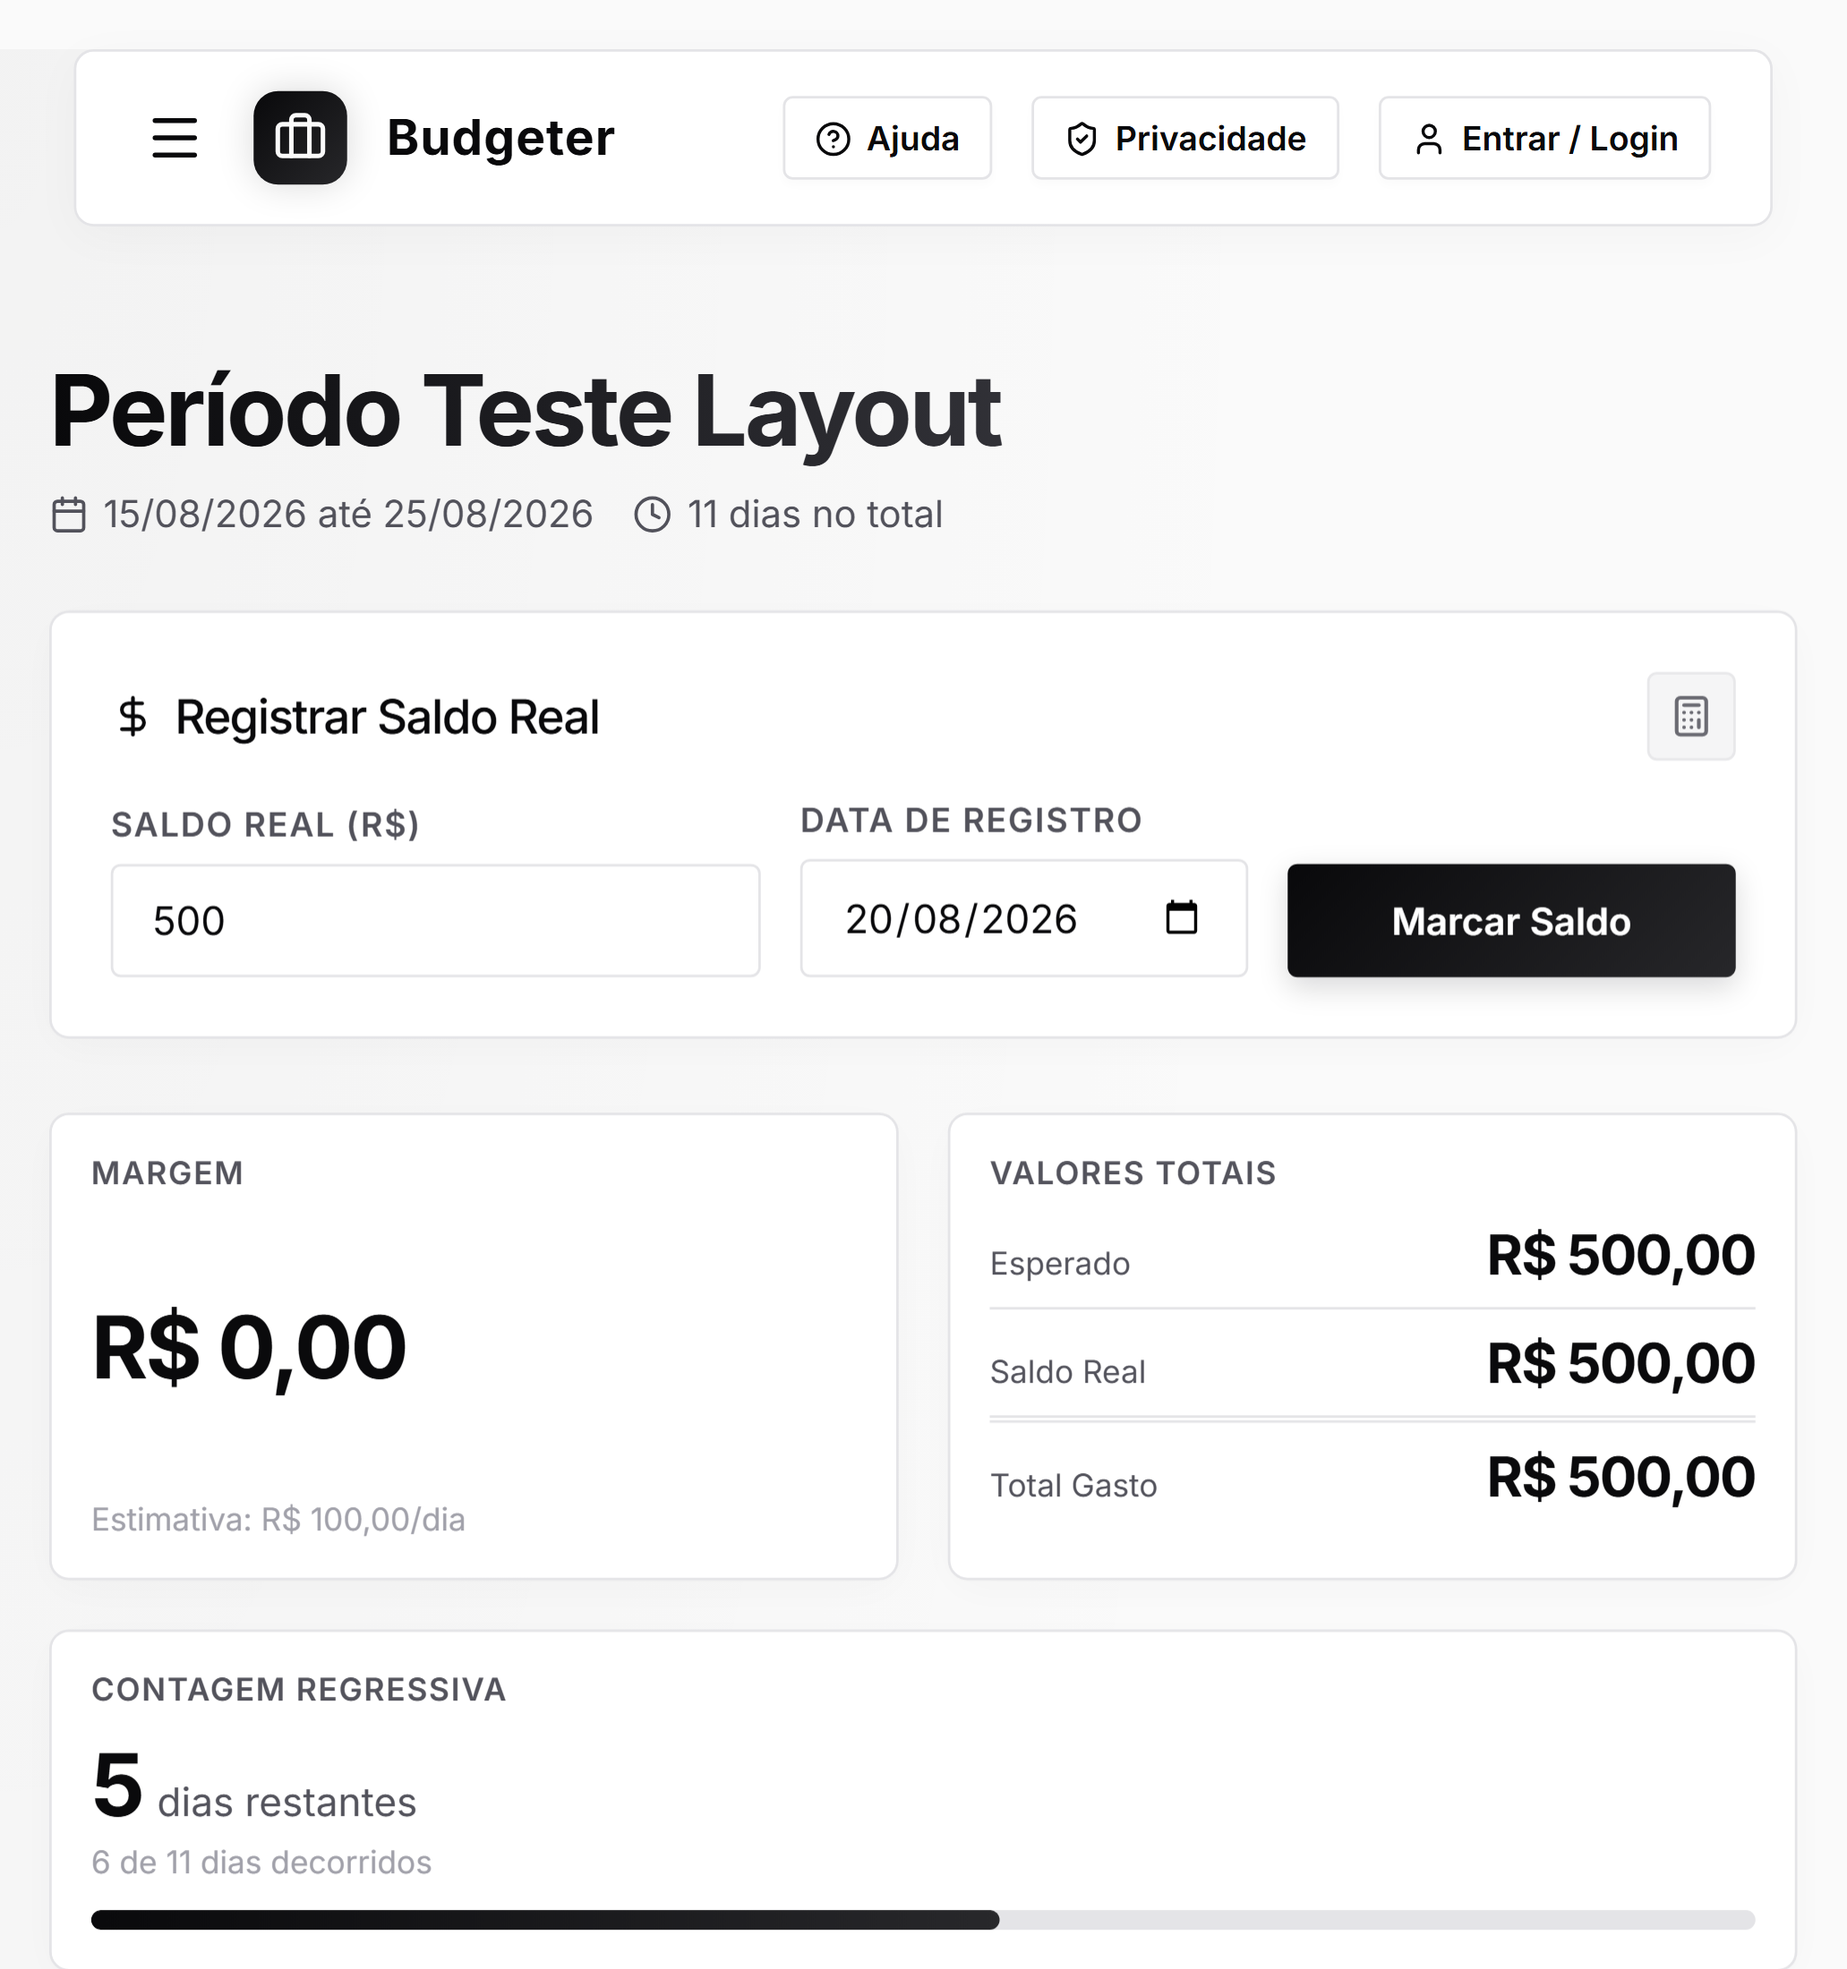
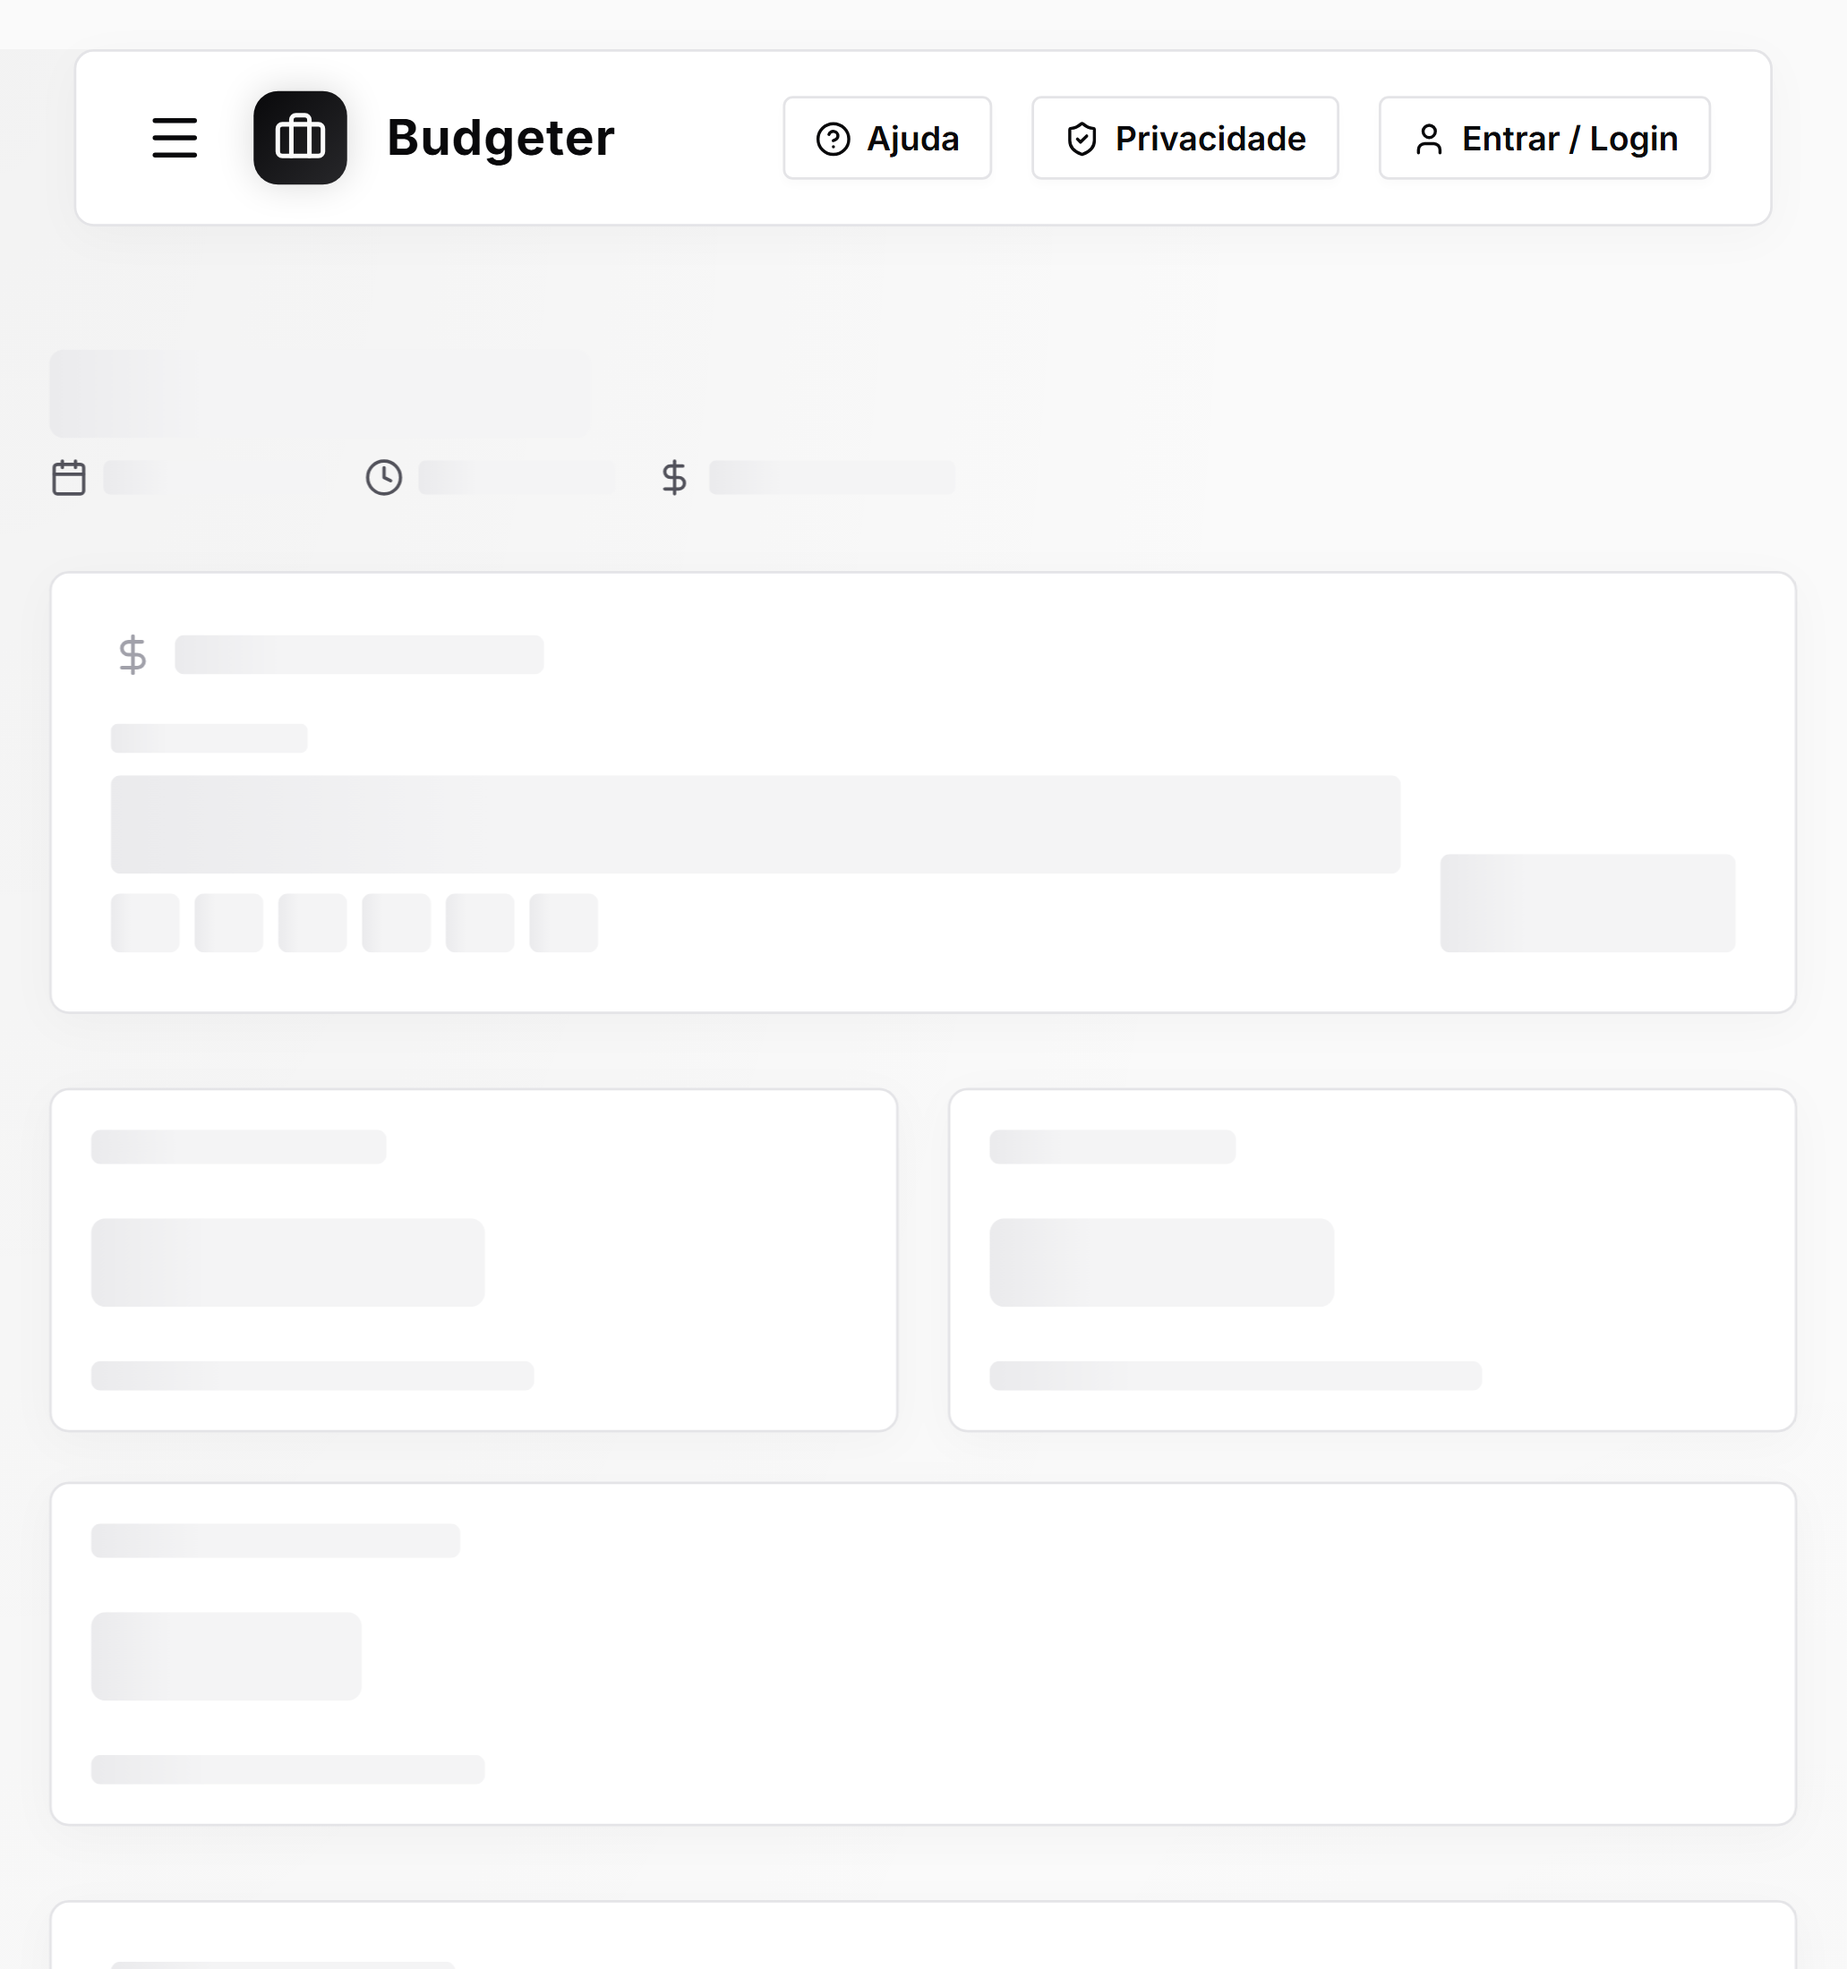
feat: exibir valor do orcamento total no cabecalho do periodo (v1.6.1)

diff --git a/playwright-report/index.html b/playwright-report/index.html
@@ -87,4 +87,4 @@ Error generating stack: `+l.message+`
     <div id='root'></div>
   </body>
 </html>
[2 lines of base64/hex data omitted]

diff --git a/tests/mobile-header.spec.ts b/tests/mobile-header.spec.ts
@@ -42,4 +42,31 @@ test.describe('Mobile Header Layout', () => {
       await expect(userBtnSkeleton.first()).toBeHidden();
     }
   });
+
+  test('period header displays total budget', async ({ page }) => {
+    const mockPeriod = {
+      id: 'test-period-header',
+      name: 'ago26',
+      startDate: '2026-08-01',
+      endDate: '2026-08-31',
+      initialBudget: 2500,
+      finalBudget: 0,
+      currentBalance: 2000,
+      currentBalanceDate: '2026-08-10',
+      balanceHistory: { '2026-08-10': 2000 },
+      createdAt: new Date().toISOString(),
+      userId: 'test-user'
+    };
+
+    await page.addInitScript((data) => {
+      window.localStorage.setItem('budgeter_periods', JSON.stringify([data]));
+      window.localStorage.setItem('budgeter_selected_period_id', data.id);
+      window.localStorage.setItem('lgpd_consent_accepted', 'true');
+    }, mockPeriod);
+
+    await page.goto('/');
+    await expect(page.locator('h1')).toContainText('ago26');
+    await expect(page.getByText('R$ 2.500,00 de orçamento total')).toBeVisible();
+  });
 });
+

diff --git a/src/components/SkeletonDashboard.tsx b/src/components/SkeletonDashboard.tsx
@@ -74,6 +74,10 @@ export const SkeletonPeriodDetail: React.FC = () => {
             <Clock size={16} /> 
             <span className="skeleton-pulse" style={{ height: '14px', width: '80px', borderRadius: '3px' }} />
           </span>
+          <span style={{ display: 'flex', alignItems: 'center', gap: '6px' }}>
+            <DollarSign size={16} /> 
+            <span className="skeleton-pulse" style={{ height: '14px', width: '100px', borderRadius: '3px' }} />
+          </span>
         </div>
       </div>
 

diff --git a/src/components/PeriodDetail.tsx b/src/components/PeriodDetail.tsx
@@ -445,6 +445,9 @@ export const PeriodDetail: React.FC<PeriodDetailProps> = ({
           <span style={{ display: 'flex', alignItems: 'center', gap: '6px' }}>
             <Clock size={16} /> {metrics.totalDays} dias no total
           </span>
+          <span style={{ display: 'flex', alignItems: 'center', gap: '6px' }}>
+            <DollarSign size={16} /> {formatCurrency(period.initialBudget)} de orçamento total
+          </span>
         </div>
       </div>
 
